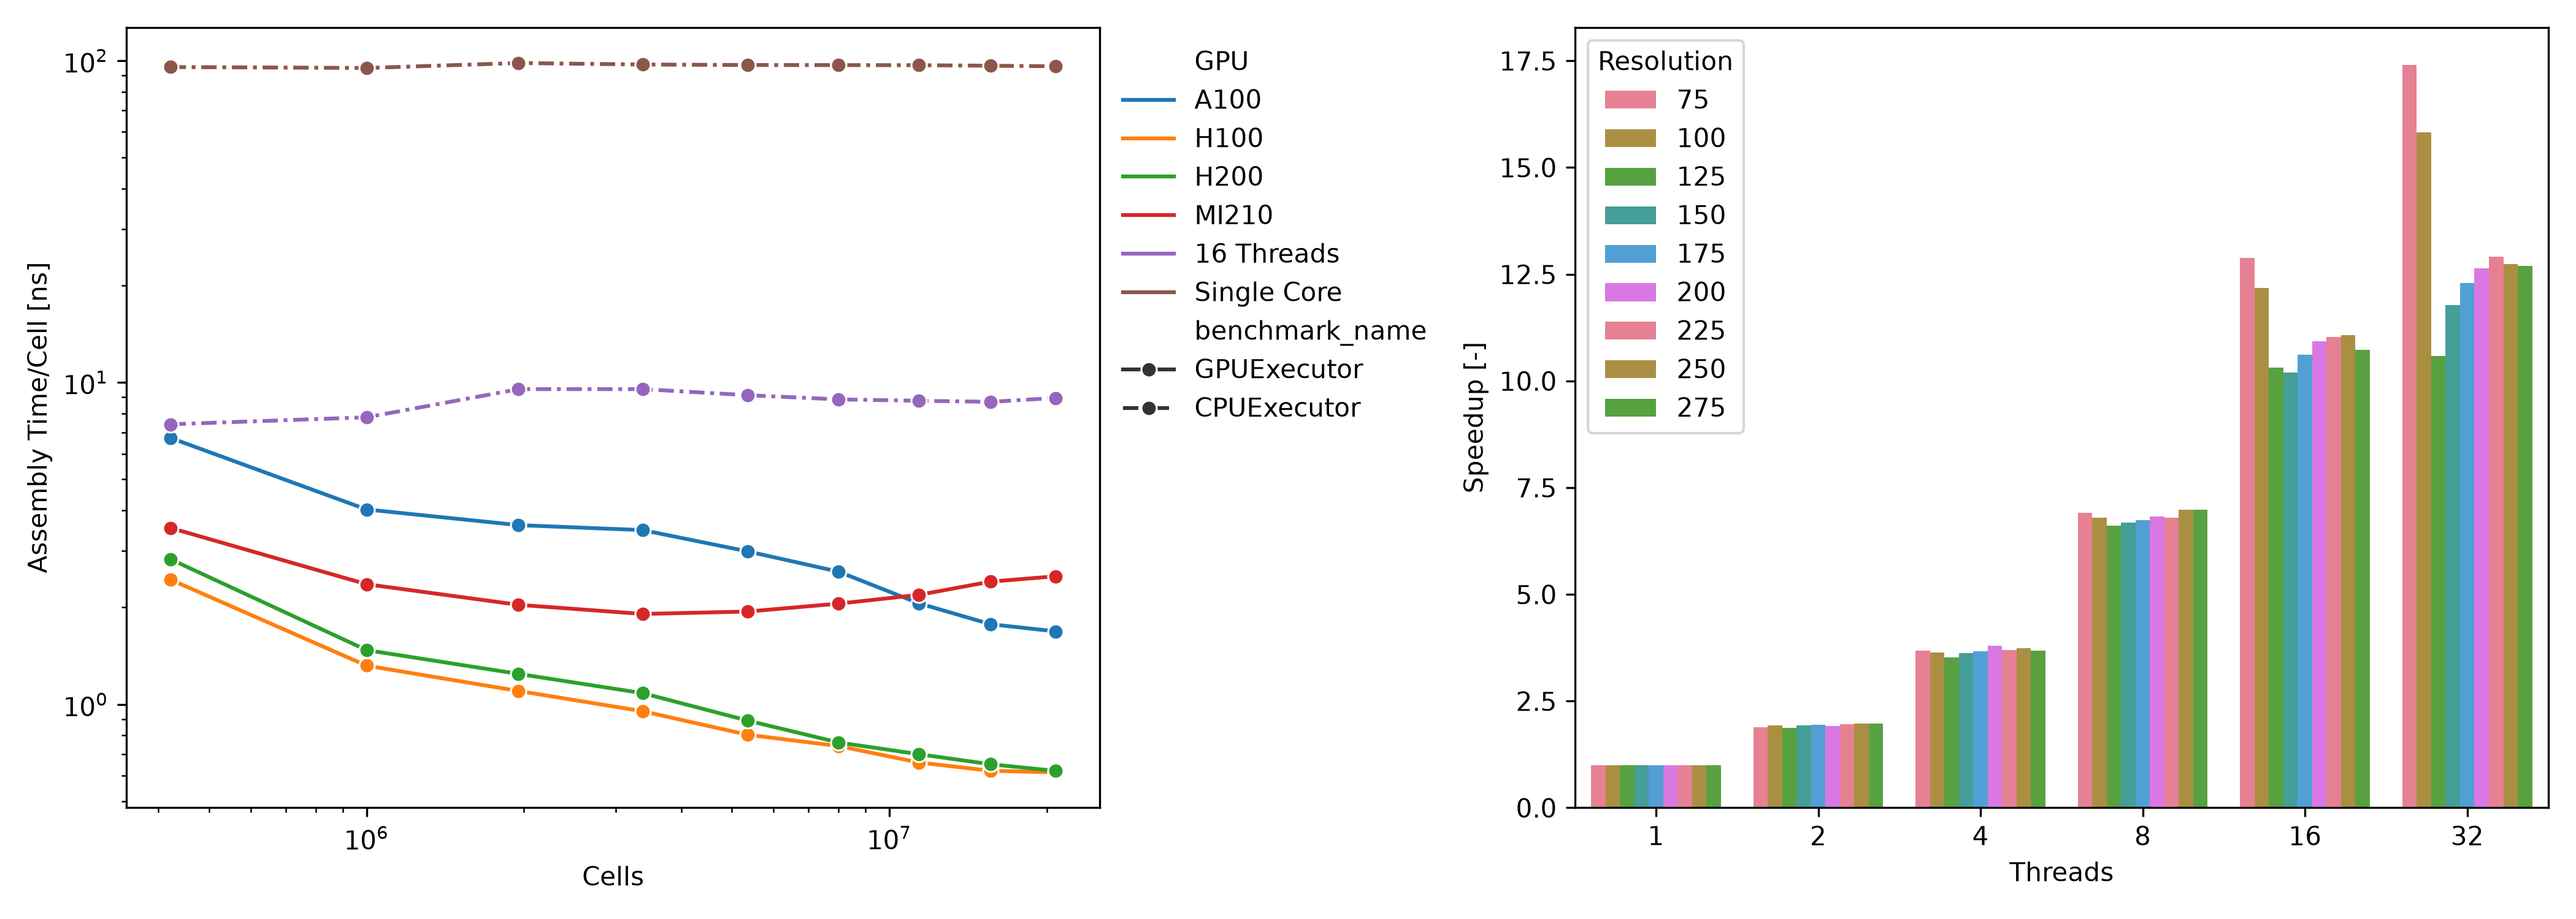
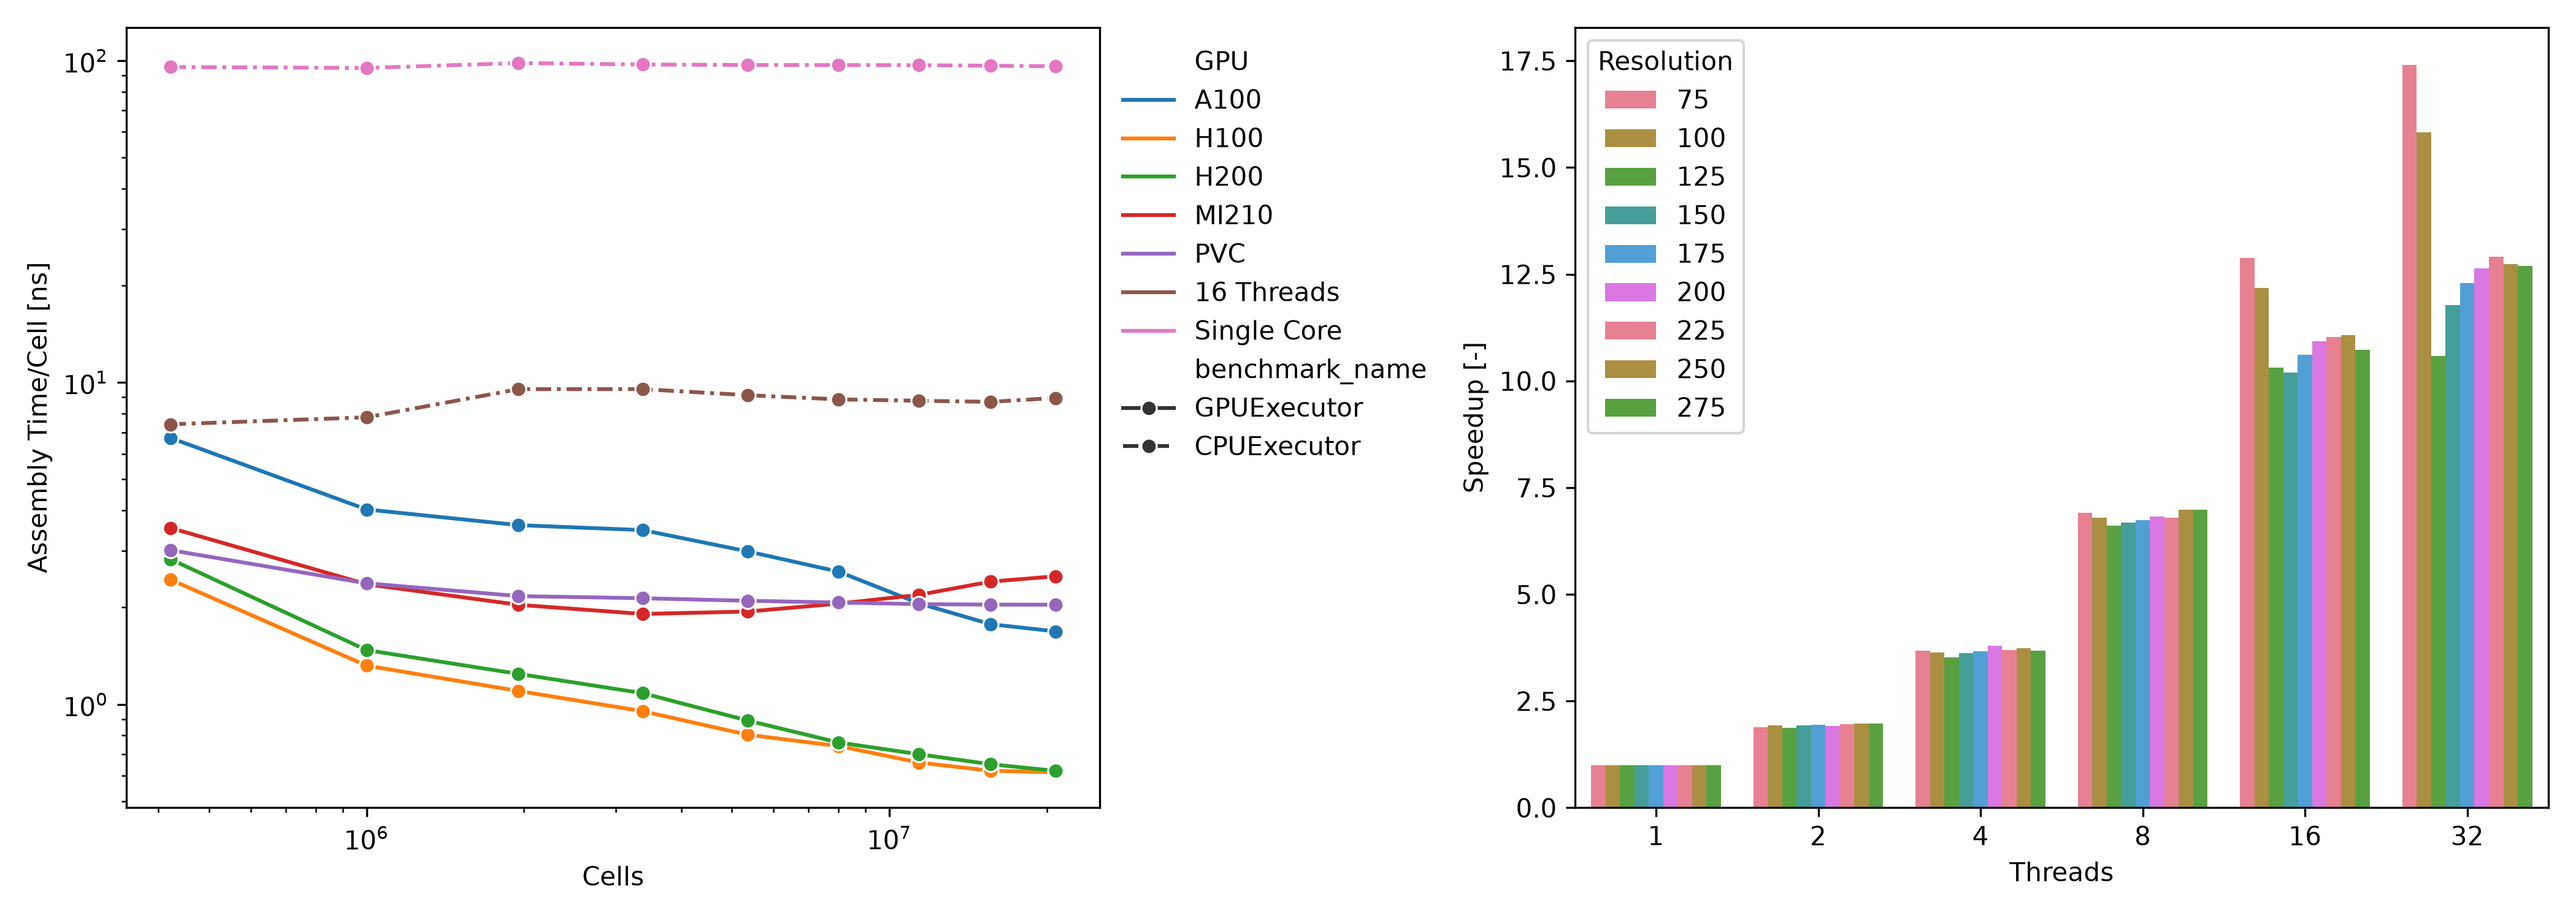
doc(joss): add Intel PVC benchmark data to the performance figure

diff --git a/doc/joss/scripts/plotPerformance.py b/doc/joss/scripts/plotPerformance.py
@@ -21,6 +21,7 @@ Usage:
     python3 ../scripts/plotPerformance.py \\
         --gpu A100=data/momentum_nvidia_a100.1.csv --gpu H100=data/momentum_nvidia_h100.1.csv \\
         --gpu H200=data/momentum_nvidia_h200.1.csv --gpu MI210=data/momentum_amd_mi210.1.csv \\
+        --gpu PVC=data/momentum_intel_pvc.1.csv \\
         --cpu data/momentum_nvidia_h200.{1,2,4,8,16,32}.csv \\
         --output neon_performance.png
 

diff --git a/doc/joss/paper.md b/doc/joss/paper.md
@@ -80,9 +80,9 @@ The discretisation engine then applies selected temporal and spatial schemes to 
 High-level workflow concerns such as time loops, solver control, and I/O are intentionally handled outside the core library by external applications. The `Demonstrator` (e.g. NeoFOAM) illustrates how NeoN can be integrated into OpenFOAM-style workflows. Importantly, NeoN operates independently of OpenFOAM, and its Python bindings facilitate access to the DSL without NeoFOAM.
 
 # Performance Evaluation
-![Computational performance evaluating a simplified momentum transport equation. Left: required assembly time per cell for different grid resolutions on a single core, using 16 threads, and on NVIDIA A100, H100 and H200 and AMD MI210 GPUs. Right: speed-up relative to a single core for different numbers of threads across various grid resolutions.\label{fig:neon-performance}](figures/neon_performance.png){width=100%}
+![Computational performance evaluating a simplified momentum transport equation. Left: required assembly time per cell for different grid resolutions on a single core, using 16 threads, and on NVIDIA A100, H100 and H200, AMD MI210, and Intel Data Center GPU Max 1100 (PVC) GPUs. Right: speed-up relative to a single core for different numbers of threads across various grid resolutions.\label{fig:neon-performance}](figures/neon_performance.png){width=100%}
 
-To evaluate the performance of NeoN, the wall-clock time required for the matrix assembly of the expression defined in Listing 1 is measured across multiple hardware backends and problem sizes. The computational domain consists of a unit cube discretised using a uniform hexahedral mesh with varying resolutions. Benchmarks are conducted on representative high-performance computing hardware, including an AMD EPYC 9555 processor (64 cores), NVIDIA A100, H100 and H200 GPUs, and an AMD MI210 GPU. \autoref{fig:neon-performance}(Left) reports the assembly time per cell for different grid resolutions, comparing single-core CPU execution, multi-core CPU execution (16 threads), and GPU execution on an A100, H100, H200 and MI210 device. The results indicate that GPU acceleration reduces the assembly time per cell relative to single-core CPU execution by a factor of approximately 15 to 155, depending on the device and grid resolution, with the largest gains on the H100 and H200 for the finest grids.
+To evaluate the performance of NeoN, the wall-clock time required for the matrix assembly of the expression defined in Listing 1 is measured across multiple hardware backends and problem sizes. The computational domain consists of a unit cube discretised using a uniform hexahedral mesh with varying resolutions. Benchmarks are conducted on representative high-performance computing hardware, including an AMD EPYC 9555 processor (64 cores), NVIDIA A100, H100 and H200 GPUs, an AMD MI210 GPU, and an Intel Data Center GPU Max 1100 (PVC). \autoref{fig:neon-performance}(Left) reports the assembly time per cell for different grid resolutions, comparing single-core CPU execution, multi-core CPU execution (16 threads), and GPU execution on an A100, H100, H200, MI210 and PVC device. The results indicate that GPU acceleration reduces the assembly time per cell relative to single-core CPU execution by a factor of approximately 15 to 155, depending on the device and grid resolution, with the largest gains on the H100 and H200 for the finest grids.
 In addition, strong scaling experiments using the OpenMP backend on up to 32 CPU cores are presented in \autoref{fig:neon-performance}(Right). Up to eight threads, the speedup is close to linear. At 16 and 32 threads, speedups of approximately 11x and 13x are achieved for most resolutions. The diminishing gains beyond 16 threads are attributed to memory bandwidth limitations leading to increased contention among threads.
 
 # Research Impact Statement
